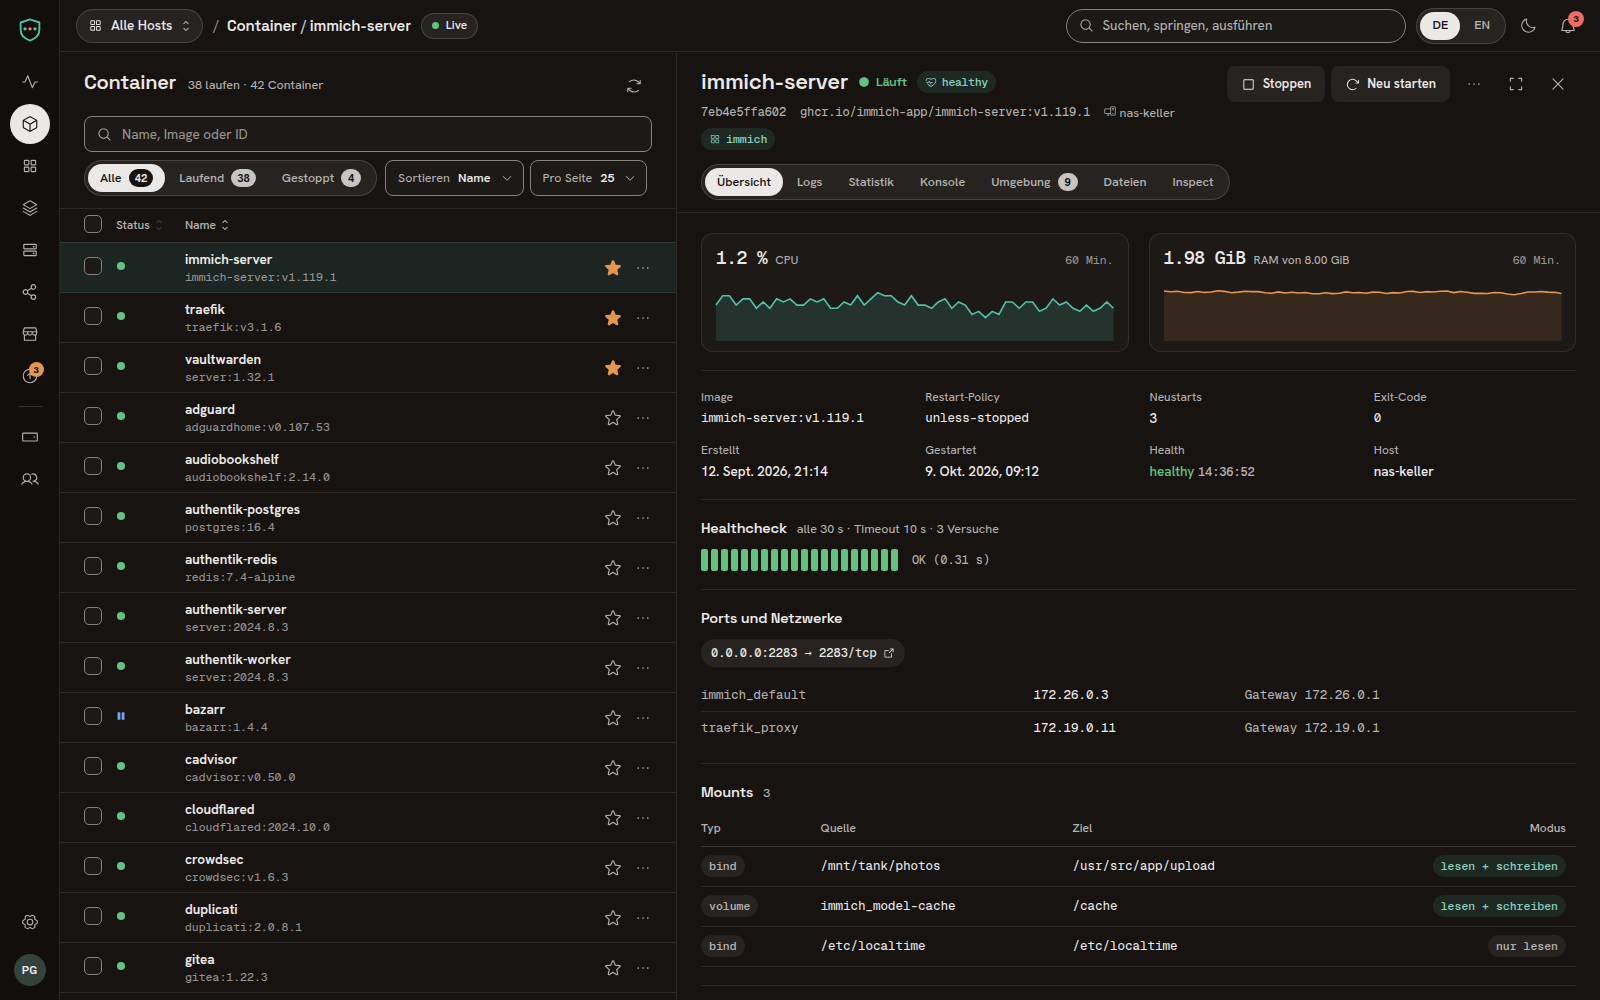
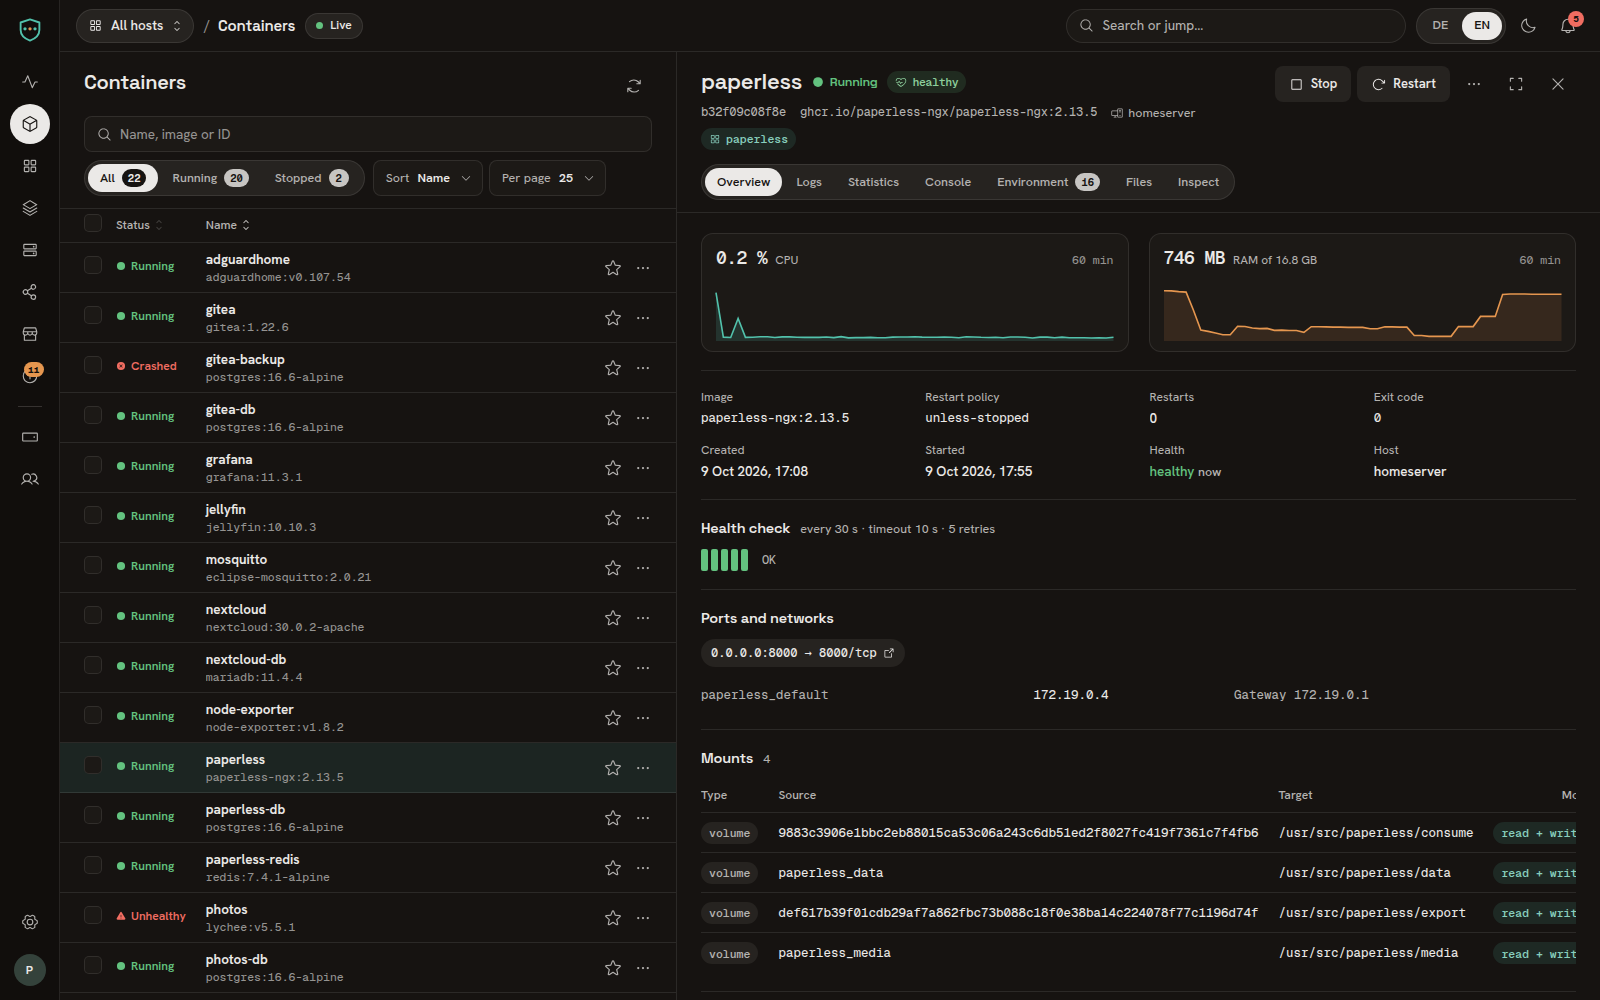
docs: real 2.0.0 screenshots and verified README claims
Reshoot every README screenshot from the real Containly 2.0.0 app in English,
connected to two throwaway Docker-in-Docker hosts with demo homelab stacks.
Replace the Pro-locked appearance shot with the command palette.

Align the feature text with the app: host matrix columns, event feed contents,
attention queue actions, appearance density and fonts are Pro, palette scope
and g-shortcuts, Phosphor icons in the frontend stack. Remove the claim
checklist.

diff --git a/README.md b/README.md
@@ -41,12 +41,13 @@ version, back up and edit without Containly.
 - **Timeline.** The state of every host and stack over the last 24 h (or 6 h, 12 h,
   7 days), with outages, restarts, deploys and updates marked on one time axis.
 - **Attention queue.** Offline hosts, unhealthy or crashed containers, available updates
-  and images with critical CVEs, each with the action that fixes it (re-check, restart,
-  start, update all, open).
-- **Host matrix.** Every host in one table: status, Docker version, containers, images,
-  CPU, RAM and disk with a 24 h CPU trend, updates and CVEs per host.
-- **Live events.** A running feed of container, image, update and sign-in events, with a
-  filter for warnings. Plus the containers with the most restarts.
+  and images with critical CVEs, each with a direct action (restart, start, update all,
+  open the container, host or image list).
+- **Host matrix.** Every host in one table: status, Docker version, containers, CPU, RAM
+  and disk as a heat table, a 24 h CPU trend, updates and critical CVEs per host.
+- **Live events.** A running feed of container state changes, deploys, updates, CVE scans
+  and actions taken in Containly (with the user), with a filter for warnings. Plus the
+  containers with the most restarts.
 
 ### Containers
 
@@ -139,14 +140,15 @@ version, back up and edit without Containly.
   built from an accent colour.
 - **Per-user override** *(Pro)*. Admins set the instance default; users may pick their
   own theme, font and density if the admin allows it.
-- **Density and fonts.** Comfortable or compact rows, corner style, and four font
+- **Density and fonts** *(Pro)*. Comfortable or compact rows, corner style, and four font
   pairings. All fonts are self-hosted; nothing loads from a third party.
 
 ### Keyboard, mobile, languages
 
-- **Keyboard-first.** `Ctrl`/`Cmd` + `K` opens the command palette for pages, hosts,
-  containers and images. In lists, `j` and `k` move, `Enter` opens the inspector, `Esc`
-  closes it, `/` searches, and `g` then `d` or `c` jumps to the dashboard or containers.
+- **Keyboard-first.** `Ctrl`/`Cmd` + `K` opens the command palette for pages (including
+  the App catalog), hosts, containers, images and quick actions. In lists, `j` and `k` move,
+  `Enter` opens the inspector, `Esc` closes it, `/` searches, `g` then a letter jumps to a
+  page (`d` dashboard, `c` containers, `s` stacks), and `?` lists every shortcut.
 - **Mobile and PWA.** A phone layout with bottom navigation and pull to refresh.
   Install Containly as an app on your phone or desktop.
 - **Languages.** English and German.
@@ -162,8 +164,8 @@ version, back up and edit without Containly.
 | ![Live container logs](docs/screenshots/container-logs-dark.png) | ![Stack detail with the compose editor, light mode](docs/screenshots/stack-editor-light.png) |
 | **Image CVEs** | **Host page** |
 | ![Image inspector listing CVEs](docs/screenshots/images-cves-dark.png) | ![Endpoint host page](docs/screenshots/endpoint-host-dark.png) |
-| **Appearance and themes** | **Sign-in** |
-| ![Appearance settings with the theme gallery, light mode](docs/screenshots/appearance-themes-light.png) | ![Sign-in page](docs/screenshots/login-dark.png) |
+| **Command palette** | **Sign-in** |
+| ![Command palette searching containers and images, light mode](docs/screenshots/command-palette-light.png) | ![Sign-in page](docs/screenshots/login-dark.png) |
 
 <p align="center">
   <img src="docs/screenshots/phone-dashboard-dark.png" alt="Dashboard on a phone" width="260">
@@ -278,7 +280,7 @@ containly/
 | Layer | Technology |
 |---|---|
 | Backend | Node 22, Fastify 5, dockerode, better-sqlite3, argon2, Zod |
-| Frontend | React 19, TypeScript (strict), Vite, TanStack Query + Router, Tailwind CSS 4, Radix, i18next, xterm |
+| Frontend | React 19, TypeScript (strict), Vite, TanStack Query + Router, Tailwind CSS 4, Radix, Phosphor icons, i18next, xterm |
 | Persistence | SQLite (users, sessions, endpoints, registries, audit) and Compose stacks as files |
 
 ---

diff --git a/docs/screenshots/README.md b/docs/screenshots/README.md
@@ -7,6 +7,9 @@ Desktop shots are 1600 x 1000 px, phone shots 390 x 844 px, PNG at device scale 
 losslessly optimised (oxipng), ideally under 400 KB each. Use sample data only: no real
 hostnames, IPs, tokens, keys or personal data.
 
+The current set was taken from Containly 2.0.0 in English, connected to two throwaway
+Docker-in-Docker hosts (`homeserver` and `nas-keller`) running demo homelab stacks.
+
 | Filename | Shows | Mode |
 |---|---|---|
 | `dashboard-dark.png` | Dashboard: status line, key numbers, timeline, live events (README hero) | dark |
@@ -16,7 +19,7 @@ hostnames, IPs, tokens, keys or personal data.
 | `stack-editor-light.png` | Stack detail with the compose editor | light |
 | `images-cves-dark.png` | Image inspector, vulnerabilities (CVE) tab | dark |
 | `endpoint-host-dark.png` | Endpoint host page | dark |
-| `appearance-themes-light.png` | Settings > Appearance with the theme gallery | light |
+| `command-palette-light.png` | Command palette (`Ctrl`/`Cmd` + `K`) searching containers and images | light |
 | `login-dark.png` | Sign-in page | dark |
 | `phone-dashboard-dark.png` | Dashboard on a phone (390 x 844) | dark |
 | `phone-containers-dark.png` | Container list on a phone (390 x 844) | dark |
